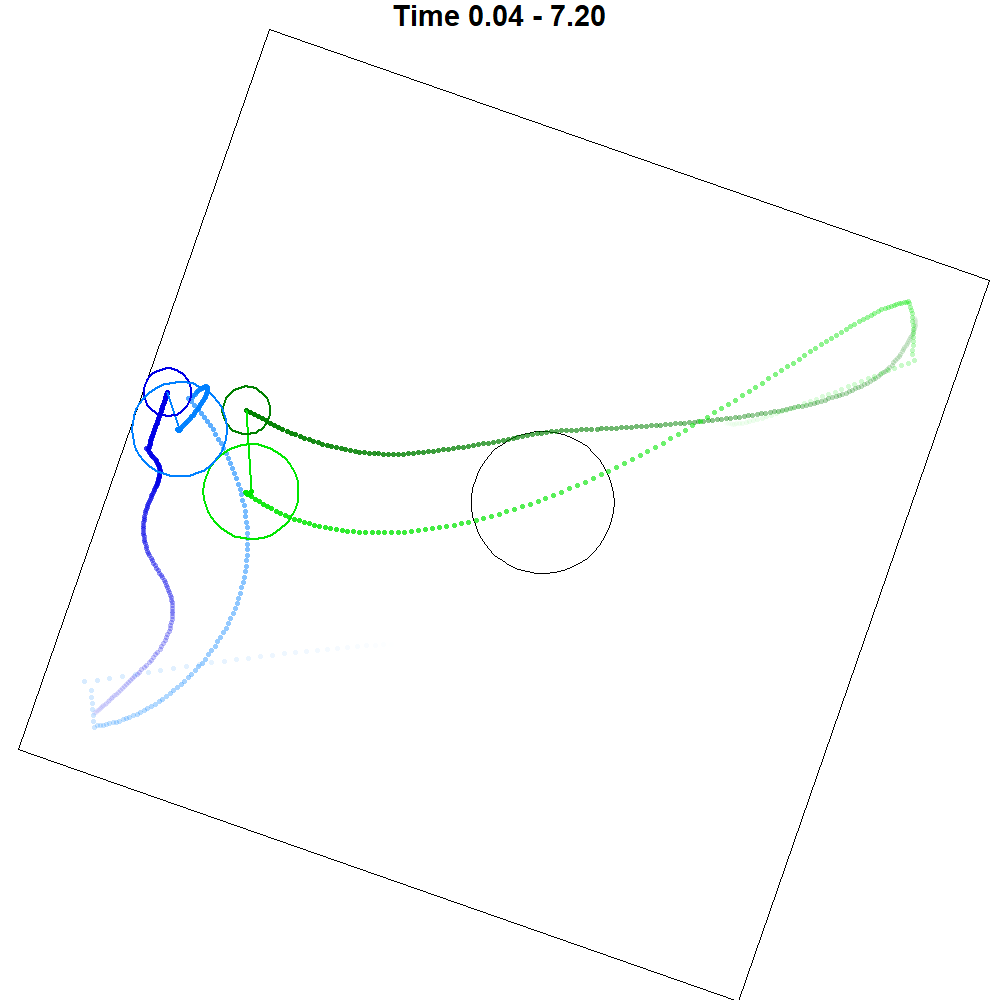
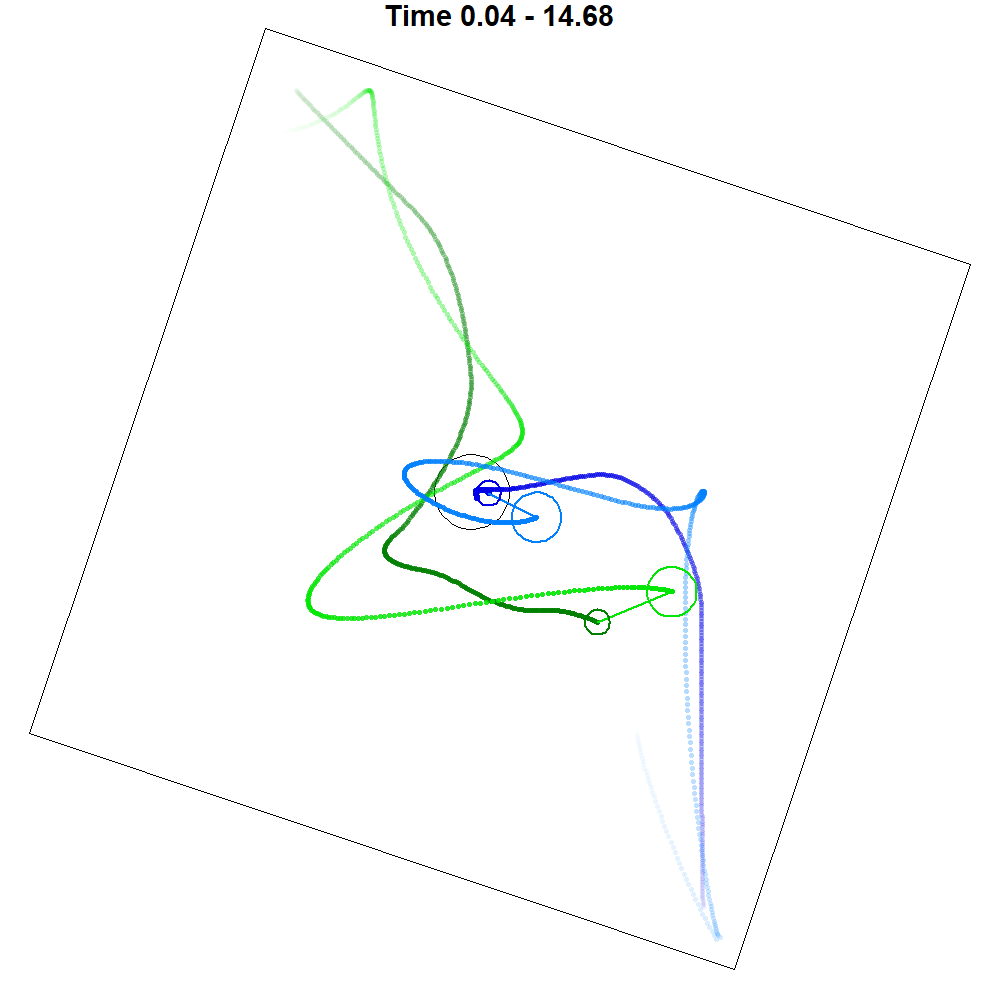
reward

diff --git a/guard/generator.py b/guard/generator.py
@@ -135,7 +135,7 @@ class DataGenerator:
         victory0 = self.life1 == 0
         victory1 = full_charge | (self.life0 == 0)
         self.world.complete = victory0 | victory1
-        ringReward = 0.02 * (ring_dist1 ** 2 - ring_dist0 ** 2)
+        ringReward = 0.02 * (ring_dist1 ** 2 - ring_dist0 ** 2) - 100 * charging 
         completeReward = 500*victory0 - 500*victory1
         self.reward = torch.where(self.world.complete, completeReward, ringReward)
 